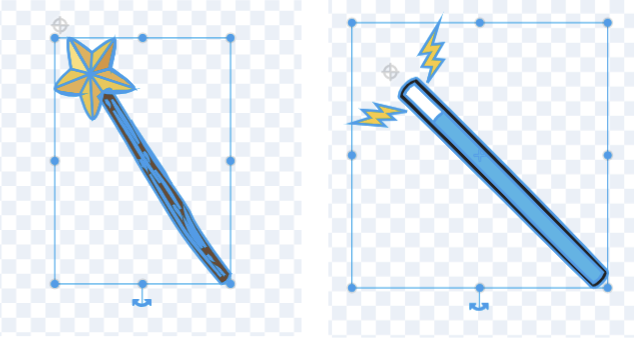
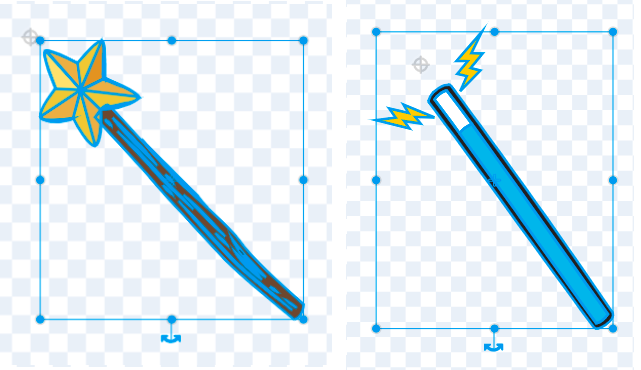
Co-authored-by: Dr Tracy Gardner <tracygardner@users.noreply.github.com>

Changed region(s): [[0.5394, 0.0587, 0.989, 0.9677], [0.03, 0.0587, 0.4795, 0.9384]]

diff --git a/en/step_2.md b/en/step_2.md
@@ -5,31 +5,41 @@
 In this step, you will set the scene and choose your wand and get it ready for magic.
 </div>
 <div>
-Image, gif or video showing what they will achieve by the end of the step. ![](images/image.png){:width="300px"}
+![](images/choose-your-wand.png){:width="300px"}
 </div>
 </div>
 
 --- task ---
 
-Open the [Broadcasting spells starter project](https://scratch.mit.edu/projects/518441891/){:target="_blank"}. Scratch will open in another browser tab.
+Open the [Broadcasting spells starter project](https://scratch.mit.edu/projects/518441891/editor){:target="_blank"}. Scratch will open in another browser tab.
 
-[[[working-offline]]]
+--- collapse ---
+
+---
+title: Working offline
+---
+
+You will need to download the [Broadcasting spells starter project](https://rpf.io/p/en/broadcasting-spells-go){:target="_blank"} and open it using the offline editor.
+
+For information about how to set up Scratch for offline use, visit our [Getting started with Scratch](https://projects.raspberrypi.org/en/projects/getting-started-scratch/1){:target="_blank"} guide.
+
+--- /collapse ---
 
 --- /task ---
 
 --- task ---
 
-You should see the Witch House backdrop with Wizard and button sprites:
+You should see the **Witch House** backdrop with **Wizard** and button sprites:
 
 ![Broadcasting starter project showing Stage and sprites.](images/broadcasting-starter.png)
 
 --- /task ---
 
-Every good Wizard needs a wand.
+To perform magic you need a wand.
 
 --- task ---
 
-Click 'Choose a Sprite' and type 'wand' into the search box: 
+Click **Choose a Sprite** and type `wand` into the search box: 
 
 ![Choose a sprite icon.](images/choose-a-sprite.png)
 
@@ -41,14 +51,14 @@ Click 'Choose a Sprite' and type 'wand' into the search box:
 
 --- task ---
 
-Add code to make the Wand sprite follow the mouse pointer and stay in front of the buttons:
+Add code to make the **Wand** sprite follow the mouse pointer and stay in front of the buttons:
 
 ![](images/wand-sprite-icon.png)
 
 ```blocks3
 when flag clicked
 forever
-go to (mouse-pointer v)
+go to (mouse-pointer v) //change from 'random position'     
 go to [front v] layer // in front of the buttons
 end
 ```
@@ -58,31 +68,29 @@ end
 
 **Test:** Click on the green flag to run your project, the wand will follow your mouse pointer. 
 
-At the moment the wand doesn't look like you are holding it and is too small. 
-
 --- /task ---
+
+At the moment the wand doesn't look like you are holding it and it is too small. 
 
 --- task ---
 
-Got to the Sprite pane and change the **Size** property to '200' to make the wand bigger:
+Go to the Sprite pane and change the **Size** property to `200` to make the wand bigger:
 
 ![The Sprite pane with the Size property highlighted with value 200.](images/size-property.png)
 
 --- /task ---
 
-To be able to click on the buttons you need to move the 'centre' of the sprite costume so that it doesn't get in the way of the mouse cursor (or your finger on a tablet).
-
 --- task ---
 
-Open the Wand costume in the Paint editor.
+Click on the **Costumes** tab to open the Wand costume in the Paint editor.
 
-Click on the 'Select' (Arrow) tool and then draw a rectangle around the whole wand to select all of the parts of the costume. 
+Click on the **Select** (Arrow) tool and then draw a rectangle around the whole wand to select all of the parts of the costume. 
 
 ![Wand costumes grouped.](images/the-select-tool.png)
 
 ![Wand costumes grouped.](images/grouped-costumes.png)
 
-Then click on 'Group' to combine the wand parts.
+Then click on the **Group** icon to combine the wand parts.
 
 ![Wand costumes grouped.](images/group-icon.png)
 
@@ -90,11 +98,19 @@ Then click on 'Group' to combine the wand parts.
 
 --- task ---
 
-Move the Wand so that it's tip is just away from the centre. 
+Use the 'rotate' handle on the wand to position the wand at an angle.   
 
-Use the 'rotate' handle on the wand to position the wand at an angle.
+![Wand costumes rotated.](images/rotated-wands.png)
 
-<mark>Check whether wand costumes are grouped</mark>
+**Tip:** If you can't see the rotate handle, click the '-' button at the bottom of the Paint editor to zoom out.
+
+--- /task ---
+
+To be able to click on the buttons you need to move the 'centre' of the sprite costume so that it doesn't get in the way of the mouse cursor (or your finger on a tablet).
+
+--- task ---
+
+Move the Wand so that its tip is just away from the centre. 
 
 ![Wand costumes correctly positioned.](images/positioned-wands.png)
 

diff --git a/en/step_1.md b/en/step_1.md
@@ -1,13 +1,13 @@
 ## Introduction
-Use a magic wand to choose spells and broadcast spell messages to turn sprites into toads and grow and shrink them.
+Make an app where you use a magic wand to turn sprites into toads and grow and shrink them.
 
 You will:
-+ Click on buttons to `broadcast`{:class="block3events"} messages to other sprites
++ Create buttons that `broadcast`{:class="block3events"} messages to other sprites
 + Get multiple sprites to respond when they `receive`{:class="block3events"} the same message
 + Use the `Sound`{:class="block3sound"} editor to reverse sounds
 
 <p style="border-left: solid; border-width:10px; border-color: #0faeb0; background-color: aliceblue; padding: 10px;">
-<span style="color: #0faeb0">**Broadcasting messages**</span> is like shouting out a message to everyone in a game. In the game Marco Polo, one person closes their eyes and counts to ten then shouts 'Marco'. The other players then shout 'Polo'. The one who shouted 'Marco' keeps their eyes closed and tries to catch one of the others, they can shout 'Marco' again to get more 'Polo' responses. The story is that the famous explorer Marco Polo once got separated from his family and they called 'Marco' and he responded with 'Polo'.
+<span style="color: #0faeb0">**Broadcasting messages**</span> is like shouting out a message to everyone in a game. In the game Marco Polo, one person closes their eyes and counts to ten then shouts 'Marco'. The other players then shout 'Polo' so the first player can use their listening skills to try and find them. 
 </p>
 
 --- no-print ---
@@ -15,7 +15,7 @@ You will:
 ### Try it
 <div style="display: flex; flex-wrap: wrap">
 <div style="flex-basis: 175px; flex-grow: 1">  
-Try it: Click on the buttons with the magic wand to cast spells on the characters and watch what happens.</div>
+**Try it:** Use the magic wand to click on the buttons and cast spells. What does each spell do to the characters?</div>
 <div class="scratch-preview" style="margin-left: 15px;">
   <iframe allowtransparency="true" width="485" height="402" src="https://scratch.mit.edu/projects/embed/518413238/?autostart=false" frameborder="0"></iframe>
 </div>

diff --git a/en/step_3.md b/en/step_3.md
@@ -16,9 +16,9 @@ when this sprite clicked
 
 --- /task ---
 
-When you click on the 'shrink' button you want the Wizard sprite to shrink. 
+When you click on the shrink button you want the **Wizard** sprite to shrink. 
 
-The **shrink** sprite needs to `broadcast`{:class="block3events"} a `message`{:class="block3events"} so that the Wizard knows that the shrink spell has been cast.
+The **shrink** sprite needs to `broadcast`{:class="block3events"} a `message`{:class="block3events"} so that the **Wizard** sprite knows that the shrink spell has been cast.
 
 --- task ---
 
@@ -50,11 +50,11 @@ broadcast (shrink v)
 
 --- /task ---
 
-Now when you click on the button, Scratch will broadcast the 'shrink' message. But nothing will happen until you get the Wizard to do something when it recieves the message.
+Now when you click on the button, Scratch will broadcast the 'shrink' message. But nothing will happen until you get the **Wizard** sprite to do something when it recieves the message.
 
 --- task ---
 
-Add code to the Wizard sprite to shrink when it recieves a 'shrink' message:
+Add code to the **Wizard** sprite to shrink when it recieves a 'shrink' message:
 
 ![](images/wizard-icon.png)
 
@@ -67,6 +67,8 @@ change size by [-10] // negative numbers decrease the size
 --- task ---
 
 **Test:** Click on the shrink button to shrink the Wizard. Do this as many times as you like.
+
+**Debug:** If your Wizard grows instead of shrinks, add a minus `-` before the number `10` to make a negative number `-10`.
 
 --- /task ---
 
@@ -82,7 +84,7 @@ set size to [100] %
 ```
 --- /task ---
 
-Messages are broadcast to all sprites. The wand can play a sound when it receives the 'shrink' message.
+Messages are `broadcast`{:class="block3events"} to all sprites. When the **Wand** `receives`{:class="block3events"} the 'shrink' message it should play a sound.
 
 --- task ---
 
